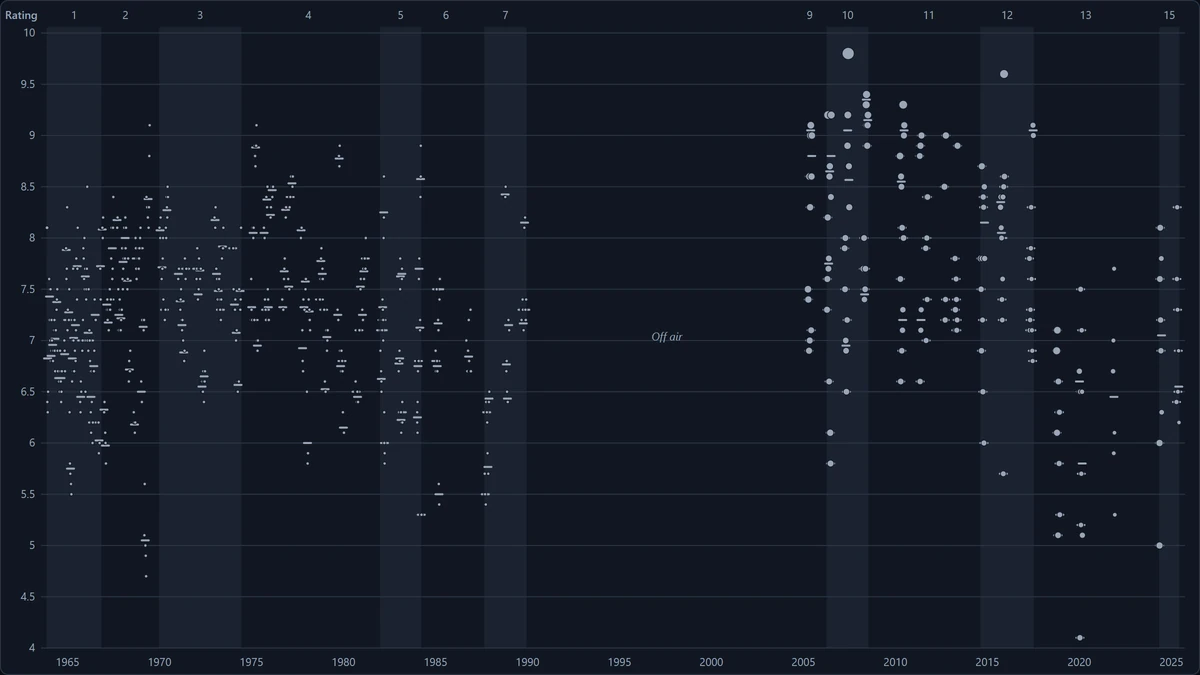
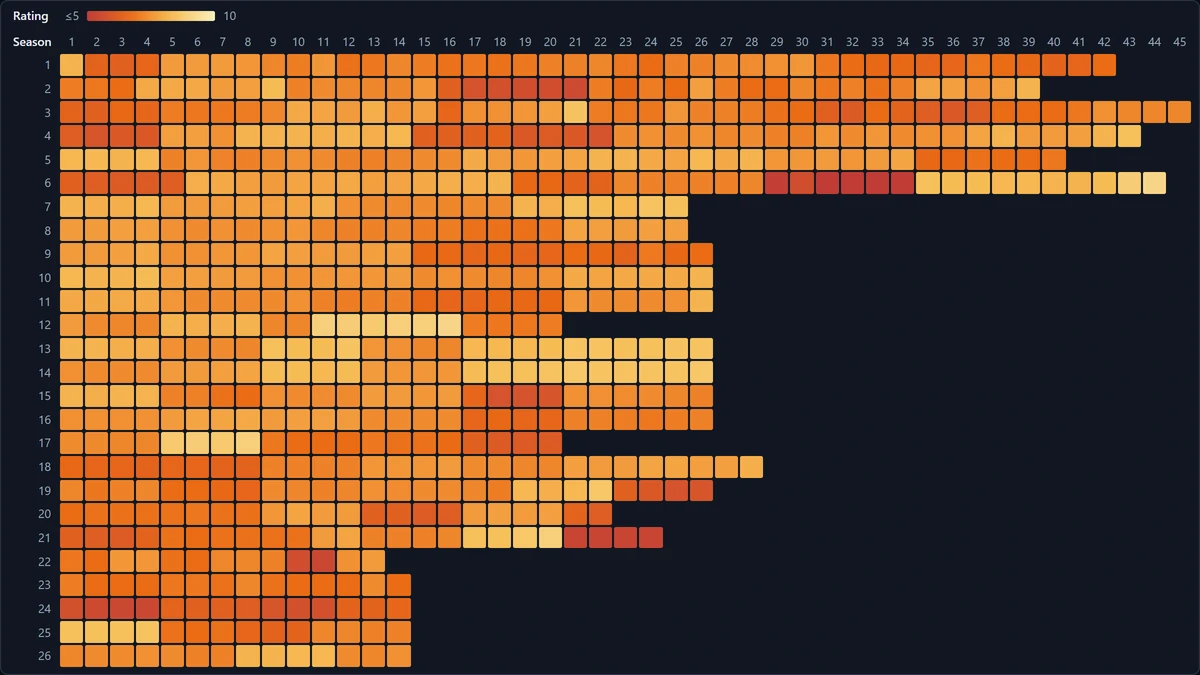
Open on the heatmap, as v1.6.0
The demo now opens on the classic era's heatmap instead of the timeline.
The loading still is re-rendered as that heatmap, in both themes, so
nothing jumps when the demo starts, and its alt text is the heatmap's
stage label. The view buttons keep their order, and the card and link
previews don't change.

diff --git a/demo/index.html b/demo/index.html
@@ -11,7 +11,7 @@
   <body style="margin: 0">
     <!-- The still image shows until the script mounts the demo, and stays if JavaScript is off. -->
     <div data-demo="doctor-who-ratings">
-      <img src="./static.webp" width="1200" height="675" alt="Timeline of IMDb ratings for every regular Doctor Who episode from 1963 to 2025, one dot per episode, with each Doctor's run banded and the years off air between 1989 and 2005 left empty.">
+      <img src="./static.webp" width="1200" height="675" alt="Heatmap of IMDb ratings, one row per season and one cell per episode.">
     </div>
     <script type="module" src="./src/main.js"></script>
   </body>

diff --git a/demo/src/main.js b/demo/src/main.js
@@ -56,6 +56,7 @@ async function start(el) {
       { label: 'Heatmap', value: 'heatmap', icon: ICONS.heatmap },
       { label: 'Leaderboard', value: 'leaderboard', icon: ICONS.leaderboard },
     ],
+    value: 'heatmap',
   });
   const doctor = select({
     label: 'Doctor',
@@ -265,6 +266,6 @@ async function start(el) {
 
 const el = document.querySelector(`[data-demo="${manifest.slug}"]`);
 start(el).catch((error) => {
-  // The still image stays in place, so the page still shows the timeline.
+  // The still image stays in place, so the page still shows the heatmap.
   console.error('doctor-who-ratings: could not start the demo', error);
 });

diff --git a/scripts/stills.py b/scripts/stills.py
@@ -1,6 +1,6 @@
 """Render the demo's stills from the built demo into demo/public/, in the dark and light themes.
 
-- static.webp and static-light.webp: the opening timeline, shown while the demo loads.
+- static.webp and static-light.webp: the opening heatmap, shown while the demo loads.
 - thumb.webp and thumb-light.webp: the classic era's heatmap, for the project card. The stage is shot
   small, so its cells stay bold on the card, and at 16:10, the card's shape, then centred on the
   theme's page colour at 1200 x 675. The card trims those margins.
@@ -44,7 +44,7 @@ class QuietHandler(http.server.SimpleHTTPRequestHandler):
 def open_page(browser, url):
     page = browser.new_page(viewport={"width": 1400, "height": 900}, device_scale_factor=SCALE, reduced_motion="reduce")
     page.goto(url)
-    page.wait_for_selector(".dw-timeline circle")
+    page.wait_for_selector(".dw-cell")
     page.evaluate("document.head.append(Object.assign(document.createElement('style'), { id: 'still' }))")
     return page
 

diff --git a/docs/plan.md b/docs/plan.md
@@ -68,7 +68,7 @@ The project is descriptive. It makes no claims about what causes a rating.
 
 | | |
 | --- | --- |
-| Views | Timeline (opening), Heatmap and Leaderboard, switched with three icon buttons at the top of the controls rail. The rail shows only the controls the current view uses (see step 5). |
+| Views | Timeline, Heatmap (opening, since step 10) and Leaderboard, switched with three icon buttons at the top of the controls rail. The rail shows only the controls the current view uses (see step 5). |
 | Timeline | One dot per episode or part at its air date, sized by votes. Each story's mean is a short bar across its parts. The Doctors' eras are alternating bands, labelled directly, and the 1989–2005 gap shows. Hovering gives the episode's name; a click or tap gives its title, story, Doctor, rating, votes, writer and director. |
 | Heatmap | Season × episode, one era at a time. Ratings from 5 to 10 span the colour scale (see "Look"), and cells big enough to hold their rating show it (changed in step 9). Cells keep a minimum size, and the grid scrolls sideways within the stage on narrow screens. Hover and click work as on the timeline. |
 | Doctor selector | With no Doctor selected, every episode is drawn in the muted text colour. Selecting a Doctor lights their run in the accent and drops everything else to the curve colour. On the heatmap, the other Doctors' cells dim instead (see "Look"). |
@@ -97,7 +97,7 @@ The project is descriptive. It makes no claims about what causes a rating.
   - Since step 7, the stops are the kit's spectrum (`--chart-spectrum-1` to `-4`), and the demo has no local colours.
   - Every step clears 3:1 on the surface (dark 3.39:1 at worst, light 3.12:1), lightness rises from low to high with and without simulated colour-vision deficiencies, and six steps sit at least 0.05 apart in OKLab under all of them (dark 0.075, light 0.051). demo-kit's `test/tokens.test.js` checks all three.
 - **Highlighting the heatmap.** The scale already spans several hues, so the Doctor highlight can't recolour cells. Instead it dims the other Doctors' cells, and a search hit gets an outline in `--color-text`.
-- **Stills.** `scripts/stills.py` renders them from the built demo, in both themes. The loading still is the opening timeline. Since step 9, the project card and link previews show the classic era's heatmap. Don't reuse the stub's stills or the contract's image script, which both use the old paper colour.
+- **Stills.** `scripts/stills.py` renders them from the built demo, in both themes. The loading still is the opening view, the classic era's heatmap since step 10. Since step 9, the project card and link previews show the same heatmap. Don't reuse the stub's stills or the contract's image script, which both use the old paper colour.
 
 ## Repo layout (target)
 
@@ -215,7 +215,13 @@ Mark found the project card dull (2026-11-21): it showed the opening timeline wi
   - Running the scale to 10 alone wasn't enough: the spectrum's brightest shades sit close together, so Blink (9.8) and *Heaven Sent* (9.6) are only 0.017 apart in OKLab, and Blink and the 9.2s about 0.05.
   - So the scale runs from 5 to 10, and each cell big enough (30 × 18 px or more) shows its rating, in white or black, whichever contrasts more. That's every cell of the revived era on a desktop; the classic era's cells and phones' are too small, and votes show no numbers. The legend reads "≤5" and "10". Mark chose this from four options rendered on the revived era (5–9 and 5–10, each with and without numbers).
   - Black rather than a near-black, so every cell clears 4.5:1 in both themes (4.6:1 at worst). A JS test reads the spectrum from the kit's `tokens.css` and checks it, so a new kit can't quietly break it.
-- [ ] Merging releases `v1.5.0`.
+- [x] Merging released `v1.5.0` on 2026-11-21.
+
+### 10. Open on the heatmap: release `v1.6.0`
+Asked for by Mark on 2026-11-21.
+- [x] **The demo opens on the heatmap**, in the classic era, rather than the timeline. The view buttons keep their order.
+- [x] **The loading still** is the opening heatmap at 1200 × 675, in both themes, so nothing jumps when the demo starts. Its alt text is the heatmap's stage label. The card and link previews don't change.
+- [ ] Merging releases `v1.6.0`.
 
 ## For Mark, on the site
 

diff --git a/README.md b/README.md
@@ -6,7 +6,7 @@ The project is descriptive: it shows how episodes were rated, not why.
 
 **Status:** live. The timeline, the heatmap and the leaderboard all work. The plan, design decisions and milestones are in [docs/plan.md](docs/plan.md), and the draft write-up is in [docs/writeup.md](docs/writeup.md). The write-up and the demo live together at [mark-bugden.github.io/projects/doctor-who-ratings](https://mark-bugden.github.io/projects/doctor-who-ratings/).
 
-![Timeline of IMDb ratings for every regular Doctor Who episode from 1963 to 2025, one dot per episode, with each Doctor's run banded and the years off air between 1989 and 2005 left empty.](demo/public/static.webp)
+![Heatmap of IMDb ratings, one row per season and one cell per episode.](demo/public/static.webp)
 
 ## Repository layout
 
@@ -16,7 +16,7 @@ The project is descriptive: it shows how episodes were rated, not why.
 | [`src/doctor_who_ratings/`](src/doctor_who_ratings/) | Python: the data pipeline and the leaderboard's reference maths. |
 | [`reference/`](reference/) | The hand-checked tables of stories and parts, from Wikipedia. Its README explains how they're made and checked. |
 | [`tests/`](tests/) | Python tests: the reference tables, the demo's data file and the rankings. |
-| [`scripts/`](scripts/) | Renders the demo's stills: the opening timeline, and the heatmap for the project card. |
+| [`scripts/`](scripts/) | Renders the demo's stills: the opening heatmap, and the same heatmap smaller for the project card. |
 | [`docs/`](docs/) | The plan, and the draft write-up for the site. |
 | [`legacy/`](legacy/) | The original 2025 notebook, kept for reference. Its README explains why its variance analysis doesn't hold. |
 
